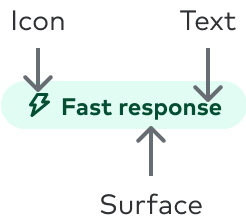
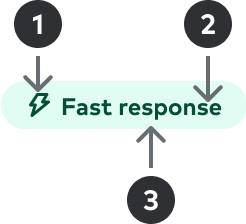
adds components for usage documentation adds additional usage documentation for pill component

Changed region(s): [[0.3984, 0.75, 0.8252, 1.0], [0.7114, 0.0, 0.9675, 0.25], [0.0285, 0.0, 0.2846, 0.25]]

diff --git a/www/src/components/anatomy/index.tsx b/www/src/components/anatomy/index.tsx
@@ -1,0 +1,38 @@
+import React from 'react';
+import Badge from '../badge';
+import { Text } from '@thumbtack/thumbprint-react';
+import styles from './index.module.scss';
+
+interface PropTypes {
+    children: React.ReactNode;
+}
+
+interface AnatomyItemPropTypes {
+    children: React.ReactNode;
+    title: string;
+    number: string;
+}
+
+export function Anatomy({ children }: PropTypes): JSX.Element {
+    return <ul className={`flex-row  ${styles.children}`}>{children}</ul>;
+}
+
+export function AnatomyItem({ title, number, children }: AnatomyItemPropTypes): JSX.Element {
+    return (
+        <li className="flex pb3">
+            <div className="flex-column">
+                <Badge size={2}>{number}</Badge>
+            </div>
+            <div className="flex-column pl2">
+                <div className="flex-row">
+                    <Text size={1} className="b">
+                        {title}
+                    </Text>
+                </div>
+                <div className="flex-row">{children}</div>
+            </div>
+        </li>
+    );
+}
+
+export default { Anatomy };

diff --git a/www/src/components/badge/index.tsx b/www/src/components/badge/index.tsx
@@ -1,0 +1,18 @@
+import React from 'react';
+import { Text } from '@thumbtack/thumbprint-react';
+
+interface PropTypes {
+    children: React.ReactNode;
+    size?: 1 | 2 | 3;
+}
+
+export default function Badge({ size, children }: PropTypes): JSX.Element {
+    return (
+        <Text
+            size={size}
+            className="bg-black white b h2 w2 tc br-100 flex items-center justify-center"
+        >
+            {children}
+        </Text>
+    );
+}

diff --git a/www/src/components/usage-img/index.tsx b/www/src/components/usage-img/index.tsx
@@ -1,0 +1,9 @@
+import React from 'react';
+
+interface PropTypes {
+    children: React.ReactNode;
+}
+
+export default function UsageImg({ children }: PropTypes): JSX.Element {
+    return <div className="bg-gray-200 pa4 ba b-gray flex justify-center mb3">{children}</div>;
+}

diff --git a/www/src/components/anatomy/index.module.scss b/www/src/components/anatomy/index.module.scss
@@ -1,0 +1,9 @@
+@import '~@thumbtack/thumbprint-tokens/dist/scss/_index';
+
+.childen {
+    list-style: none;
+
+    li {
+        padding-left: 0 !important;
+    }
+}
